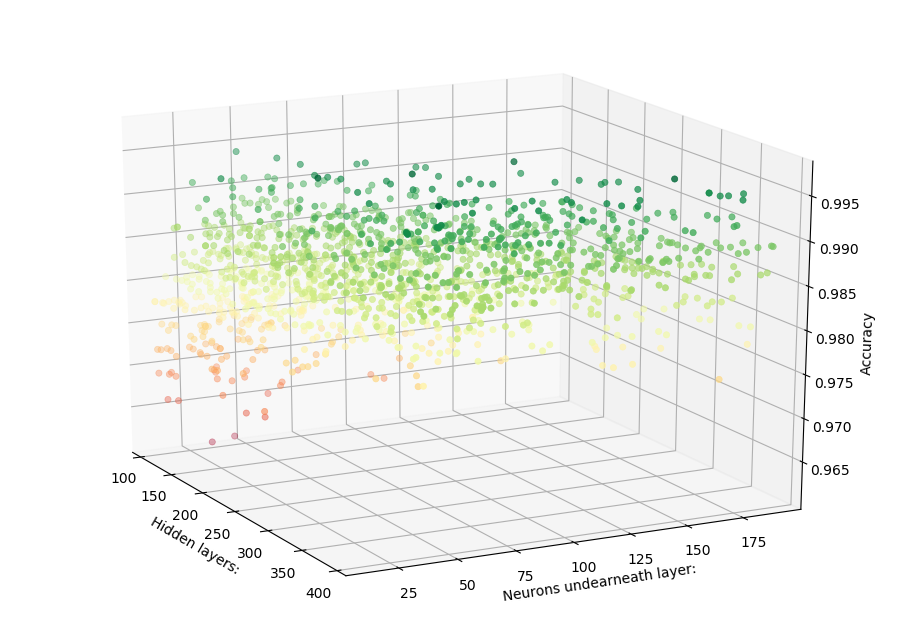
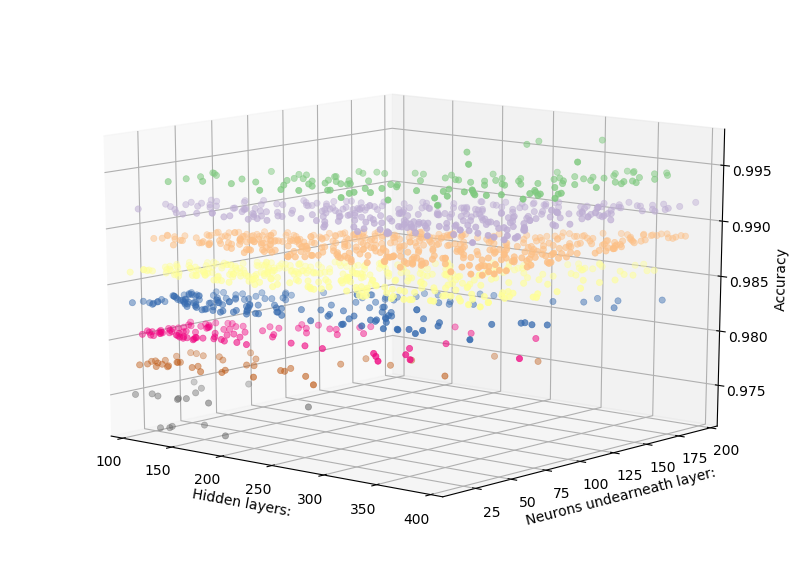
moar

Changed region(s): [[0.1233, 0.1546, 0.9864, 0.9588], [0.5549, 0.1546, 0.5857, 0.1856]]

diff --git a/Oblig2/Task1.py b/Oblig2/Task1.py
@@ -9,10 +9,13 @@ import random
 import math
 import csv
 
+# Import the dataset split into training and testing, etc..
 X_tot = datasets.load_digits().data
 Y_tot = datasets.load_digits().target
 X, X_test, Y, Y_test = train_test_split(X_tot, Y_tot, test_size=0.2)
 
+
+# Plotting related code
 fig = plt.figure()
 ax = fig.add_subplot(111, projection='3d')
 xs = []
@@ -23,15 +26,18 @@ ax.set_ylabel('Neurons undearneath layer:')
 ax.set_zlabel('Accuracy')
 plt.style.use('bmh')
 cm = plt.get_cmap("RdYlGn")
+
 # Find the best scoring alternative
 best = [0, 0, 0]
 for i in range(100, 400):
     # Since this takes a lot of time log the progress every now and then.
     if i % 10 == 0:
         print(i)
-    # Uncomment the two lines below to run the simulation alot faster but with a lot less simulations
+    # Uncomment the two lines below to run the simulation alot faster, but with a lot less simulations
     # else:
-        # continue
+    #    continue
+
+    # Only used for preventing duplicate sublayers
     neurons = ()
     # Generate 5 random choices for the amount of neurons in the hidden layer between i/10 and i/2
     for n in range(5):
@@ -41,22 +47,22 @@ for i in range(100, 400):
             neuron = random.randint(math.ceil(i/10), math.ceil(i/2))
         clf = MLPClassifier(hidden_layer_sizes=(i, neuron),
                             random_state=1, max_iter=1000).fit(X, Y)
+        # Score the algorithm and save the result to the plotting dataset
         score = clf.score(X_test, Y_test)
         xs.append(i)
         ys.append(neuron)
         zs.append(score)
+        # If this is the most accurate yet save as the array best
         if score > best[2]:
             best = [i, neuron, score]
 
-ax.scatter3D(xs, ys, zs, c=zs, cmap='Accent')
+
+ax.scatter3D(xs, ys, zs, c=zs, cmap='Accent_r')
 plt.tight_layout()
 plt.show()
 
-print("Best result of the simulation was:", best)
-logBest(best)
-
-
-def logBest(best):
-    with open('best.csv', mode="w") as results:
-        writer = csv.writer(results, delimiter=",")
-        writer.writerow(best)
+print("Most accurate configuration was:", best)
+# log the best result in a CSV file
+with open('best.csv', mode="a") as results:
+    writer = csv.writer(results, delimiter=",")
+    writer.writerow(best)
